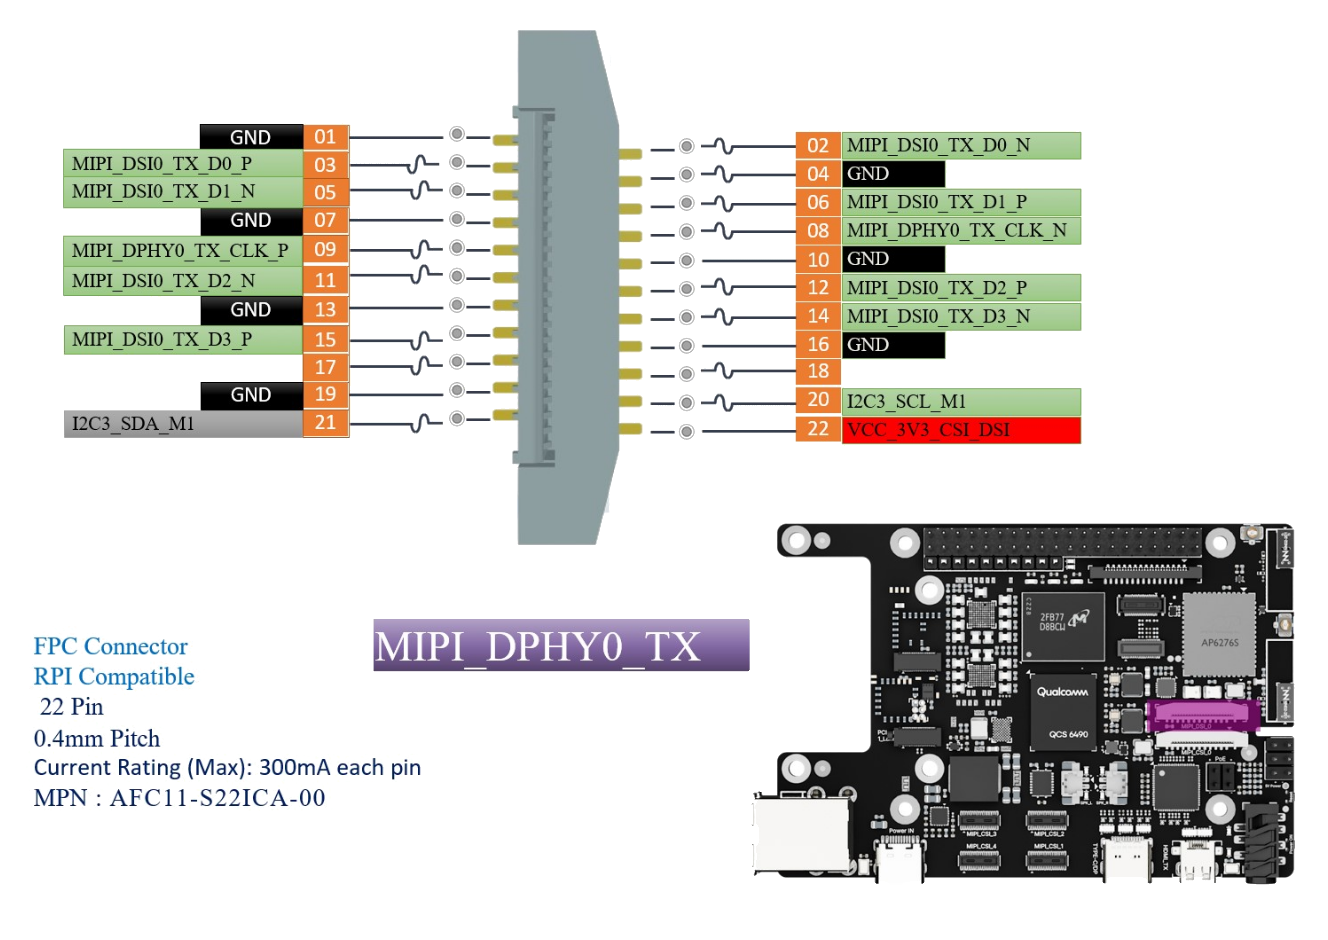
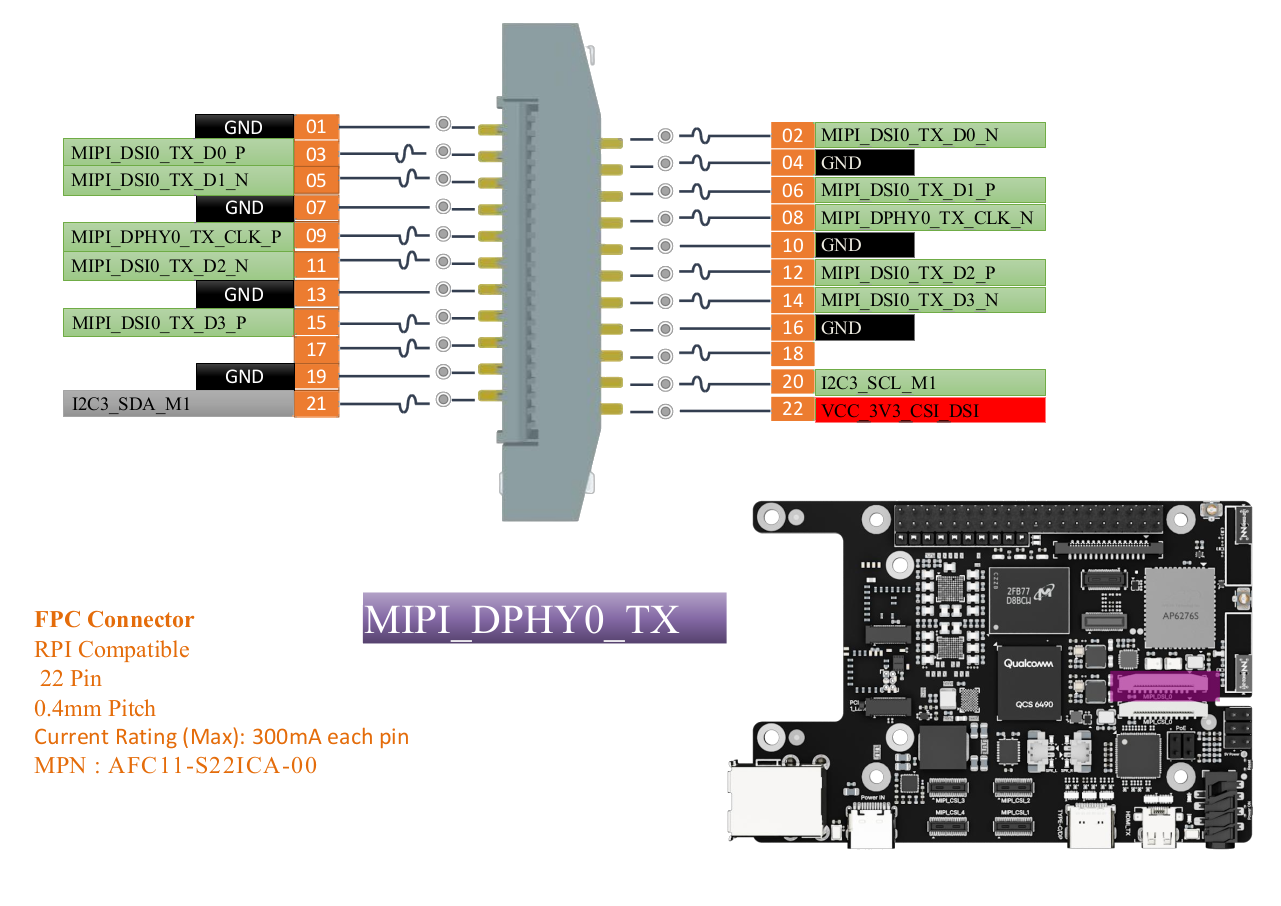
QCS6490: axon-mini: add eMMC, DMIC, and CSI images Add storage/audio/camera images and refresh DSI and speaker assets.

diff --git a/source/vicharak_sbcs/axon-mini/storage/emmc.rst b/source/vicharak_sbcs/axon-mini/storage/emmc.rst
@@ -2,6 +2,9 @@
 eMMC
 #############
 
+.. image:: /_static/images/qcs6490-axon-mini/axon-mini-emmc.webp
+   :width: 80%
+
 The Vicharak-Axon Mini board exposes an onboard eMMC 5.1 device connected to the QCS6490 MMC controller (32 GB). The interface provides persistent storage for the operating system, user data, and diagnostics. eMMC 5.1 offers reliable multi-block read/write, boot partitions, and compatibility with standard MMC/SDHCI stacks in modern Linux kernels.
 
 Hardware interface and pinout

diff --git a/source/vicharak_sbcs/axon-mini/axon-mini-video/video-input/mipi.rst b/source/vicharak_sbcs/axon-mini/axon-mini-video/video-input/mipi.rst
@@ -11,6 +11,12 @@ Camera
 - **4 X MIPI CSI [4 lanes]** at **2.5 Gbps per lane** via **30-pin B2B**
 - **1 X MIPI CSI [4 lanes]** at **2.5 Gbps per lane** via **22-pin FPC**
 
+.. image:: /_static/images/qcs6490-axon-mini/axon-mini-mipi-csi1-4.webp
+   :width: 80%
+
+.. image:: /_static/images/qcs6490-axon-mini/axon-mini-mipi-csi0.webp
+   :width: 80%
+
 Hardware Required
 ------------------
 

diff --git a/source/vicharak_sbcs/axon-mini/audio/digital.rst b/source/vicharak_sbcs/axon-mini/audio/digital.rst
@@ -2,7 +2,8 @@
 Digital Mic
 #################
 
-.. TODO: Add Axon Mini digital mic connector / DMIC image
+.. image:: /_static/images/qcs6490-axon-mini/axon-mini-dmic.webp
+   :width: 80%
 
 The Digital Mic (DMIC) input on the Axon Mini board provides a digital
 microphone interface for low-noise voice capture. Axon Mini supports
